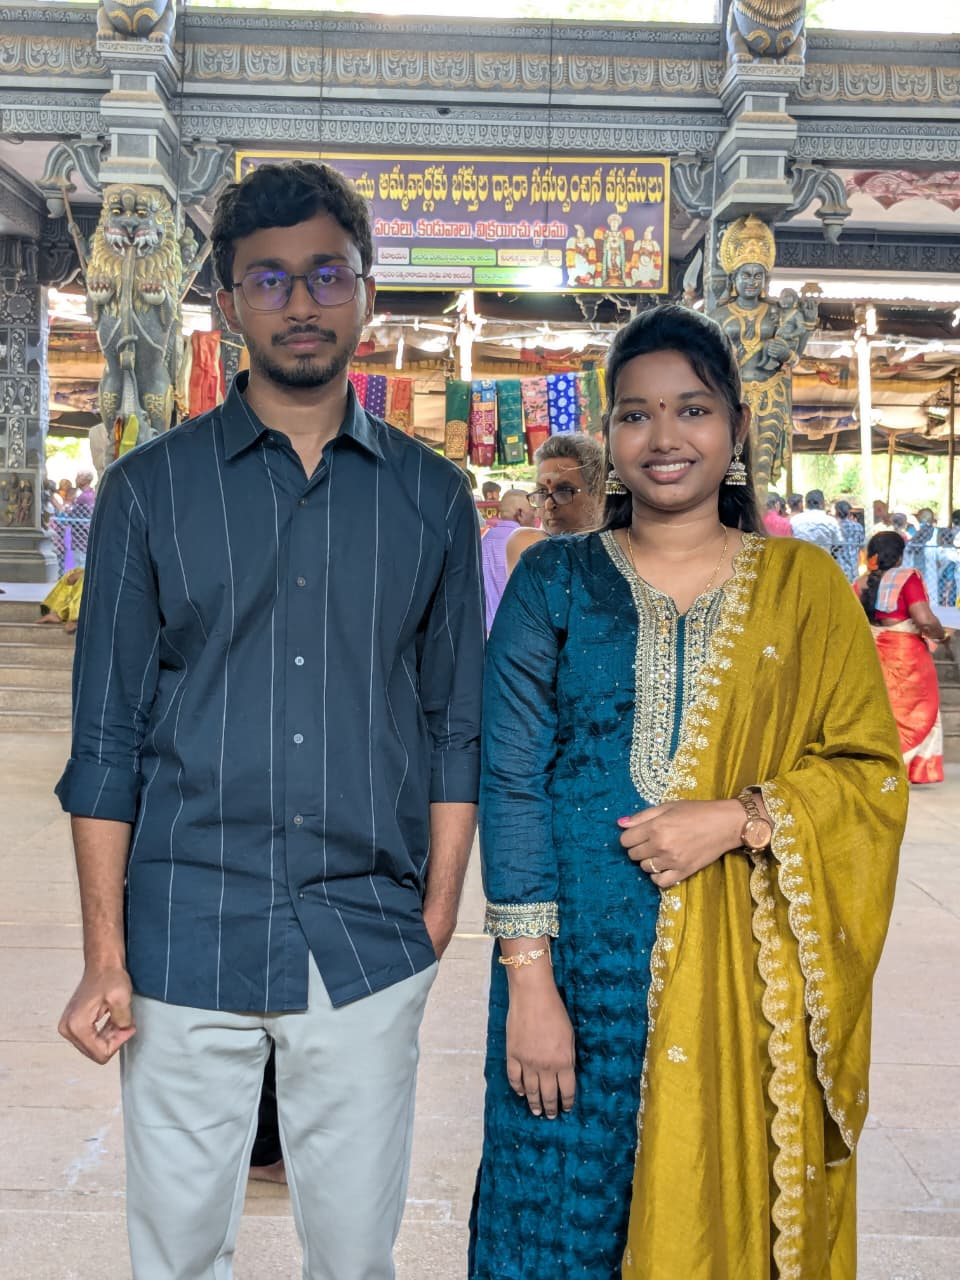
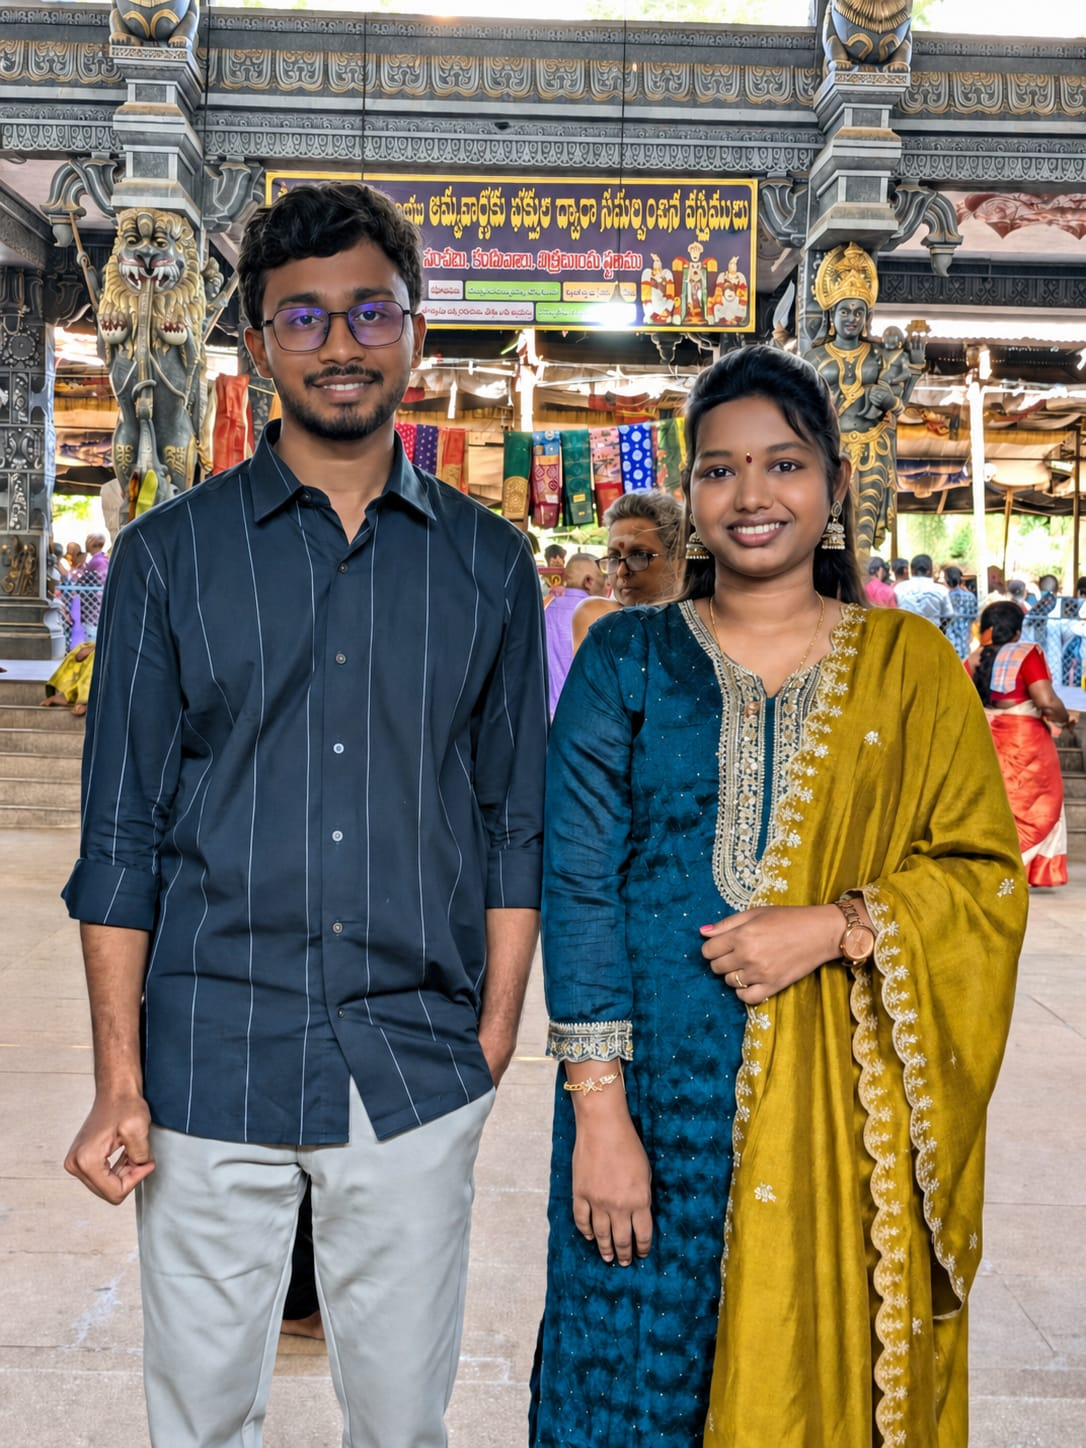
image & spelling updates

diff --git a/src/content/invitation.data.ts b/src/content/invitation.data.ts
@@ -23,7 +23,7 @@ export const INVITATION_DATA = {
   },
 
   bride: {
-    title: "Chi.La.Sau.",
+    title: "Chi.La.Sow.",
     titleTelugu: "చి||ల||సౌ||",
     name: "Sowjanya",
     nameTelugu: "సౌజన్య",
@@ -41,14 +41,14 @@ export const INVITATION_DATA = {
 
   parents: {
     groom: {
-      father: "Sri Papa Trimurtulu",
+      father: "Sri Papa Trimurthulu",
       mother: "Smt. Gowri Venkata Padmavathi",
       fatherTelugu: "శ్రీ పాపా త్రిమూర్తులు",
       motherTelugu: "శ్రీమతి గౌరి వెంకట పద్మావతి",
     },
     bride: {
       father: "Sri Jakka Satyanarayana",
-      mother: "Smt. Sujata",
+      mother: "Smt. Sujatha",
       fatherTelugu: "శ్రీ జక్కా సత్యనారాయణ",
       motherTelugu: "శ్రీమతి సుజాత",
     },